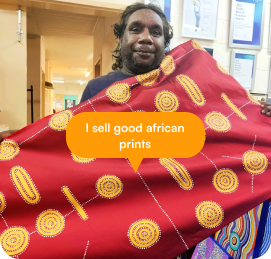
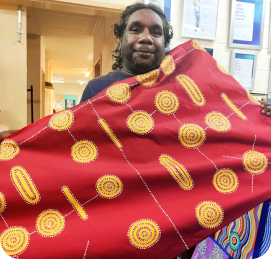
Update hero section

Changed region(s): [[0.2362, 0.4324, 0.7675, 0.6795]]

diff --git a/src/components/homepage/Hero/index.tsx b/src/components/homepage/Hero/index.tsx
@@ -2,14 +2,10 @@ import Link from 'next/link'
 import React from 'react'
 import Image from 'next/image'
 
-
 import heroImage1 from "../../../../public/assets/images/homepage/hero/new/hero1.png";
-
 import heroImage2a from "../../../../public/assets/images/homepage/hero/new/hero2a.png";
 import heroImage2b from "../../../../public/assets/images/homepage/hero/new/hero2b.png";
 import heroImage2c from "../../../../public/assets/images/homepage/hero/new/hero2c.png";
-
-
 import heroImage3 from "../../../../public/assets/images/homepage/hero/new/hero3.png";
 
 
@@ -104,19 +100,33 @@ const Hero = () => {
                     </div>
                 </div>
 
-
-
                 <div className='flex justify-between w-[85%] mx-auto xl:!h-[500px] !h-[420px] mt-10'>
 
-                    <div className='w-[24%] h-[350px]'>
+                    <div className='w-[24%] h-[350px] flex flex-col items-center relative'>
                         <Image
                             src={heroImage1}
                             alt='heroImage1'
                             layout='responsive'
                             width={500}
                             height={350}
-                             className='xl:!h-[441px] lg:!h-[357px]'
+                            className='xl:!h-[441px] lg:!h-[357px]'
                         />
+
+
+                        <div className='w-[120px] flex flex-col items-center justify-center absolute top-0 mt-[-25px] '>
+                            <div className=' w-full text-center
+flex flex-col items-center justify-center text-white h-[45px] space-y-1 
+bg-[#FE9B07] rounded-[20px]  '>
+                                <p className='font-satoshi font-[500] text-[11px]'>
+                                    I need authentic <br /> local spice
+                                </p>
+                            </div>
+
+                            <div
+                                className="w-0 h-0 border-l-[10px] border-l-transparent border-r-[10px] border-r-transparent border-t-[15px]
+                                  border-t-[#FE9B07] "
+                            ></div>
+                        </div>
                     </div>
 
 
@@ -124,7 +134,7 @@ const Hero = () => {
 
 
                         <div className='flex justify-between  space-x-4'>
-                            <div className='w-[45%] h-[200px]'>
+                            <div className='w-[45%] h-[200px] relative flex flex-col items-center'>
                                 <Image
                                     src={heroImage2a}
                                     alt='heroImage2a'
@@ -133,9 +143,24 @@ const Hero = () => {
                                     height={200}
                                     className='xl:!h-[240px] !h-[191px]'
                                 />
+
+                                <div className='w-[120px] flex flex-col items-center justify-center absolute top-24 mt-[-25px] '>
+                                    <div className=' w-full text-center
+flex flex-col items-center justify-center text-white h-[45px] space-y-1 
+bg-[#FE9B07] rounded-[20px]  '>
+                                        <p className='font-satoshi font-[500] text-[11px]'>
+                                        I sell good african <br/> prints
+                                        </p>
+                                    </div>
+
+                                    <div
+                                        className="w-0 h-0 border-l-[10px] border-l-transparent border-r-[10px] border-r-transparent border-t-[15px]
+                                  border-t-[#FE9B07] "
+                                    ></div>
+                                </div>
                             </div>
 
-                            <div className='w-[55%] h-[200px]'>
+                            <div className='w-[55%] h-[200px] relative'>
                                 <Image
                                     src={heroImage2b}
                                     alt='heroImage2b'
@@ -144,27 +169,52 @@ const Hero = () => {
                                     height={200}
                                     className='xl:!h-[240px] !h-[191px]'
                                 />
+
+                                <div className='w-[125px] flex flex-col items-center justify-center absolute top-5 right-5 '>
+                                    <div className=' w-full text-center
+flex flex-col items-center justify-center text-white h-[45px] space-y-1 
+bg-primary rounded-[20px]  '>
+                                        <p className='font-satoshi font-[500] text-[11px]'>
+                                            I offer car maintenance <br /> services
+                                        </p>
+                                    </div>
+
+                                    <div
+                                        className="w-0 h-0 border-l-[10px] border-l-transparent border-r-[10px] border-r-transparent border-t-[15px]
+                                  border-primary "
+                                    ></div>
+                                </div>
                             </div>
-
-
-
-
                         </div>
 
-                        <div className='w-full h-[350px]'>
+                        <div className='w-full h-[350px] relative'>
                             <Image
                                 src={heroImage2c}
                                 alt='heroImage2c'
-                                 layout='responsive'
+                                layout='responsive'
                                 width={500}
                                 height={350}
-                                  className='xl:!h-[185px] lg:!h-[158px]'
+                                className='xl:!h-[185px] lg:!h-[158px]'
                             />
+                            <div className='w-[120px] flex flex-col items-center justify-center absolute top-5 right-5 '>
+                                <div className=' w-full text-center
+flex flex-col items-center justify-center text-white h-[45px] space-y-1 
+bg-primary rounded-[20px]  '>
+                                    <p className='font-satoshi font-[500] text-[11px]'>
+                                        I need someone to <br /> tie my gele.
+                                    </p>
+                                </div>
+
+                                <div
+                                    className="w-0 h-0 border-l-[10px] border-l-transparent border-r-[10px] border-r-transparent border-t-[15px]
+                                  border-primary "
+                                ></div>
+                            </div>
                         </div>
 
                     </div>
 
-                    <div className='w-[24%] h-[350px]'>
+                    <div className='w-[24%] h-[350px] relative'>
                         <Image
                             src={heroImage3}
                             alt='heroImage3'
@@ -173,14 +223,32 @@ const Hero = () => {
                             height={350}
                             className='xl:!h-[441px] lg:!h-[357px]'
                         />
+
+                        <div className='w-[120px] flex flex-col items-center justify-center absolute top-0 mt-[-25px] right-0 '>
+                            <div className=' w-full text-center
+flex flex-col items-center justify-center text-white h-[45px] space-y-1 
+bg-[#FE9B07] rounded-[20px]  '>
+                                <p className='font-satoshi font-[500] text-[11px]'>
+                                    I need authentic <br /> local spice
+                                </p>
+                            </div>
+
+                            <div
+                                className="w-0 h-0 border-l-[10px] border-l-transparent border-r-[10px] border-r-transparent border-t-[15px]
+                                  border-t-[#FE9B07] "
+                            ></div>
+                        </div>
                     </div>
-
-
-
-
                 </div>
 
+
+
+
+
+
             </div>
+
+
         </div>
     )
 }

diff --git a/src/components/homepage/WhatSetUsApart/index.tsx b/src/components/homepage/WhatSetUsApart/index.tsx
@@ -129,7 +129,7 @@ const WhatSetUsApart = () => {
                                         ></div> */}
                                         <div
                                             className="w-0 h-0 border-l-[15px] border-l-transparent border-r-[15px] border-r-transparent border-t-[25px]
-                                                 border-t-[#381F8C] group-hover:border-t-[#FE9B07] transition-colors duration-300 ease-in-out;"
+                                                 border-t-[#381F8C] group-hover:border-t-[#FE9B07] transition-colors duration-300 ease-in-out"
                                         ></div>
 
                                     </div>
@@ -197,7 +197,7 @@ const WhatSetUsApart = () => {
 
                                         <div
                                             className="w-0 h-0 border-l-[15px] border-l-transparent border-r-[15px] border-r-transparent border-b-[25px]
-                                                 border-b-[#381F8C] group-hover:border-b-[#FE9B07] transition-colors duration-300 ease-in-out;"
+                                                 border-b-[#381F8C] group-hover:border-b-[#FE9B07] transition-colors duration-300 ease-in-out"
                                         ></div>
 
 
